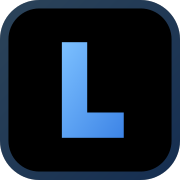
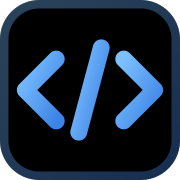
feat: bring the motion back, and swap the L monogram for </>
Motion
Successive fixes for unrelated bugs had sanded the animation down to
almost nothing — reveals were a 6px rise over 0.35s, and the hero had
no fade at all. Individually each trim was defensible; together they
left the page reading as static.

Reveals go back to a real move: 22px and a hair of scale, fading in
over 0.5s with the transform running 0.7s behind it. Nothing below the
fold affects the largest paint, so there was never a reason to hold
back there.

The hero fades again too, but from 0.45 rather than from zero. That
distinction is the whole trick: a browser does not count an element at
zero opacity as painted, so a 0 → 1 fade pushed the largest paint out
to the end of the animation. Starting at 0.45 keeps the softness and
keeps the headline readable from the first frame, which is what
actually matters to someone on a slow connection — they read it while
it settles rather than watching it appear.

Measured across five runs per route at Slow 4G with 4x CPU throttle,
largest paint is unchanged and still equal to first paint:

  /               1404ms      /ship-log           1028ms
  /work           1096ms      /work/[slug]        1092ms

Mark
The L in a rounded box said nothing about what this site is. It is now
`<Lammy/>` — brackets in mono and dimmed so the name still reads as a
name, taking the accent on hover so the whole thing responds as one
object. It costs no image, scales with the type and stays crisp at any
[…]

Changed region(s): [[0.0833, 0.1944, 0.9167, 0.8056]]

diff --git a/src/app/globals.css b/src/app/globals.css
@@ -266,16 +266,17 @@
      scroll, because content a visitor can already see should never be hidden
      behind an interaction they have not performed yet.
 
-     It moves but never fades. A browser does not count an element with zero
-     opacity as painted, so fading in the headline meant the largest paint was
-     recorded when the animation finished rather than when the text appeared —
-     roughly 400ms of self-inflicted delay on the metric, and a real one for
-     anyone on a slow phone, who watched the words materialise instead of
-     reading them. Sliding a fully-opaque element costs nothing on either
-     count. */
+     It fades, but never from zero. A browser does not count an element at zero
+     opacity as painted, so a 0 → 1 fade meant the largest paint was recorded
+     when the animation ended rather than when the text appeared. Starting at
+     0.45 keeps the softness and keeps the headline legible from the first
+     frame, which is the part that actually matters to someone on a slow
+     phone — they read it while it settles instead of watching it materialise.
+     Measured either way; this costs nothing against transform alone. */
   .js .hero-in {
-    transform: translateY(10px);
-    animation: hero-in 0.5s var(--ease-out) forwards;
+    opacity: 0.45;
+    transform: translateY(16px) scale(0.995);
+    animation: hero-in 0.85s var(--ease-out) forwards;
     animation-delay: var(--hero-delay, 0ms);
   }
 
@@ -309,17 +310,21 @@
      first paint. With scripting unavailable the rule never applies and content
      renders normally — the animation is an enhancement, never a prerequisite
      for seeing the page. */
+  /* Below the fold there is no largest-paint to protect, so this is the full
+     move: a real rise with a fade behind it. It had been sanded down to 6px
+     over 0.35s while chasing an unrelated bug, which is close enough to
+     nothing that the page read as static. */
   .js .reveal {
     opacity: 0;
-    transform: translateY(6px);
+    transform: translateY(22px) scale(0.99);
   }
 
   .js .reveal.is-visible {
     opacity: 1;
     transform: none;
     transition:
-      opacity 0.35s var(--ease-out),
-      transform 0.35s var(--ease-out);
+      opacity 0.5s var(--ease-out),
+      transform 0.7s var(--ease-out);
     transition-delay: var(--reveal-delay, 0ms);
   }
 
@@ -422,6 +427,7 @@
 
 @keyframes hero-in {
   to {
+    opacity: 1;
     transform: none;
   }
 }

diff --git a/src/lib/og.tsx b/src/lib/og.tsx
@@ -115,25 +115,15 @@ export function OgFrame({
         }}
       />
 
-      <div style={{ display: 'flex', alignItems: 'center', gap: 16 }}>
-        <div
-          style={{
-            display: 'flex',
-            alignItems: 'center',
-            justifyContent: 'center',
-            width: 40,
-            height: 40,
-            borderRadius: 10,
-            background: FG,
-            color: '#000000',
-            fontSize: 24,
-            fontWeight: 600,
-          }}
-        >
-          L
+      {/* `<Lammy/>` — the same wordmark the site uses, rebuilt in the subset
+          of flexbox Satori understands. */}
+      <div style={{ display: 'flex', alignItems: 'center', gap: 14 }}>
+        <div style={{ display: 'flex', alignItems: 'baseline', fontSize: 30 }}>
+          <div style={{ display: 'flex', fontFamily: 'GeistMono', color: accent }}>&lt;</div>
+          <div style={{ display: 'flex', fontWeight: 600, color: FG, padding: '0 3px' }}>Lammy</div>
+          <div style={{ display: 'flex', fontFamily: 'GeistMono', color: accent }}>/&gt;</div>
         </div>
-        <div style={{ display: 'flex', fontSize: 26, fontWeight: 600, color: FG }}>Lammy</div>
-        <div style={{ display: 'flex', width: 5, height: 5, borderRadius: 9999, background: FG_FAINT, marginLeft: 6 }} />
+        <div style={{ display: 'flex', width: 5, height: 5, borderRadius: 9999, background: FG_FAINT }} />
         <div
           style={{
             display: 'flex',
@@ -141,7 +131,6 @@ export function OgFrame({
             fontSize: 19,
             letterSpacing: 2,
             color: FG_FAINT,
-            marginLeft: 6,
           }}
         >
           {eyebrow.toUpperCase()}

diff --git a/src/components/ui/wordmark.tsx b/src/components/ui/wordmark.tsx
@@ -1,0 +1,27 @@
+import { cn } from '@/lib/utils';
+import { site } from '../../../config/site.config';
+
+/**
+ * The wordmark: `<Lammy/>`.
+ *
+ * A monogram in a box said nothing about what this site is. The tag form says
+ * it in one glance, which is worth more than a letter — and it costs no image,
+ * scales with the type, and stays crisp at any size.
+ *
+ * The brackets are mono and dimmed so the name still reads as the name rather
+ * than as punctuation; they take the accent on hover so the whole thing
+ * responds as one object.
+ */
+export function Wordmark({ className }: { className?: string }) {
+  return (
+    <span className={cn('inline-flex items-baseline', className)}>
+      <span className="font-mono text-fg-faint transition-colors duration-200 group-hover:text-[var(--accent)]">
+        &lt;
+      </span>
+      <span className="px-[0.08em] font-semibold tracking-tight text-fg">{site.name}</span>
+      <span className="font-mono text-fg-faint transition-colors duration-200 group-hover:text-[var(--accent)]">
+        /&gt;
+      </span>
+    </span>
+  );
+}

diff --git a/src/components/layout/nav.tsx b/src/components/layout/nav.tsx
@@ -4,6 +4,7 @@ import Link from 'next/link';
 import { usePathname } from 'next/navigation';
 import { useEffect, useState } from 'react';
 import { Menu, X } from 'lucide-react';
+import { Wordmark } from '@/components/ui/wordmark';
 import { site } from '../../../config/site.config';
 import { cn } from '@/lib/utils';
 
@@ -49,14 +50,8 @@ export function Nav() {
           scrolled ? 'glass' : 'border border-transparent',
         )}
       >
-        <Link
-          href="/"
-          className="group flex items-center gap-2.5 text-sm font-semibold tracking-tight"
-        >
-          <span className="grid size-6 place-items-center rounded-md bg-fg text-[0.7rem] font-bold text-bg-0">
-            L
-          </span>
-          <span className="text-fg">{site.name}</span>
+        <Link href="/" aria-label={`${site.name} — home`} className="group text-[0.9375rem]">
+          <Wordmark />
         </Link>
 
         <div className="hidden items-center gap-1 md:flex">

diff --git a/src/components/layout/footer.tsx b/src/components/layout/footer.tsx
@@ -1,4 +1,5 @@
 import Link from 'next/link';
+import { Wordmark } from '@/components/ui/wordmark';
 import { site } from '../../../config/site.config';
 import { generatedAt } from '@/lib/projects';
 import { formatDate } from '@/lib/projects';
@@ -10,8 +11,8 @@ export function Footer() {
     <footer className="relative mt-auto border-t border-border-hair px-5 pb-28 pt-14 sm:px-8">
       <div className="mx-auto flex w-full max-w-6xl flex-col gap-10">
         <div className="flex flex-col justify-between gap-8 sm:flex-row">
-          <div className="flex flex-col gap-2">
-            <span className="text-sm font-semibold text-fg">{site.name}</span>
+          <div className="group flex flex-col gap-2">
+            <Wordmark className="text-sm" />
             <span className="text-sm text-fg-subtle">{site.role}</span>
           </div>
 
